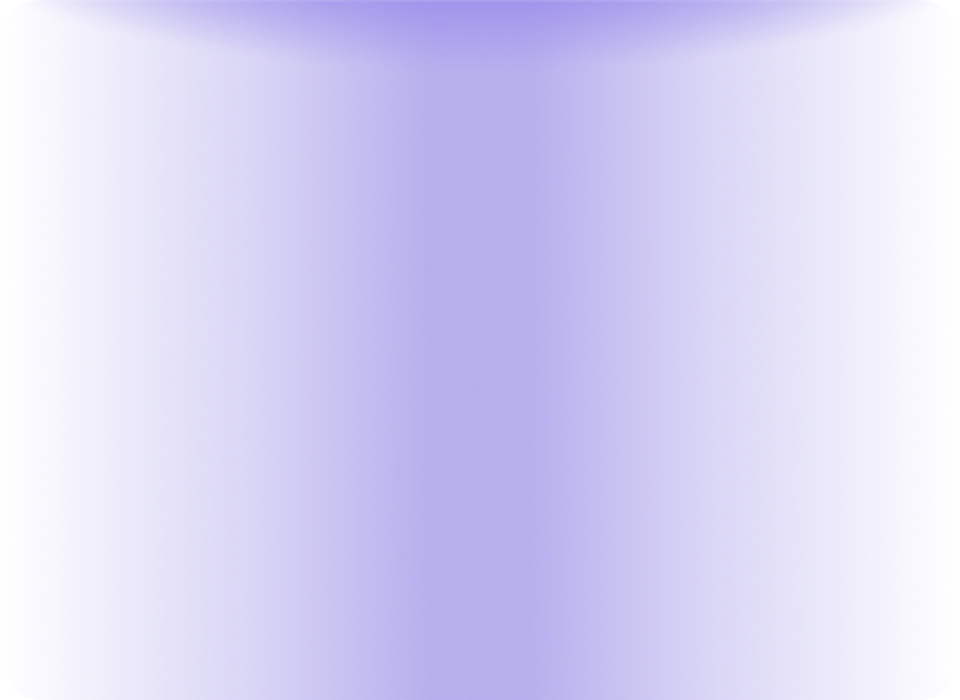
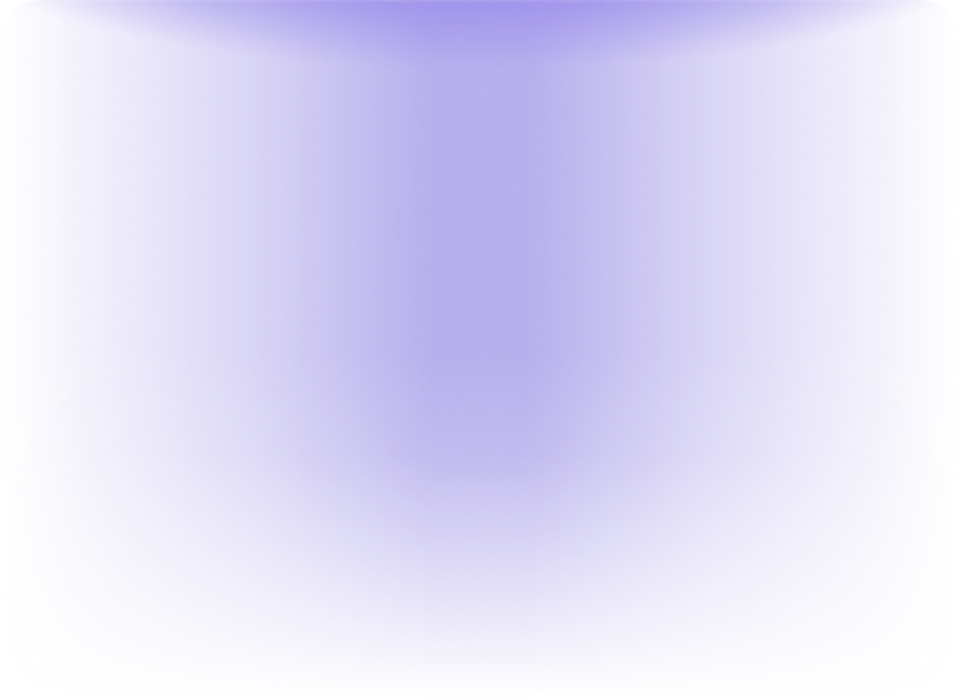
section faq change bg-form

Changed region(s): [[0.1562, 0.69, 0.8438, 1.0]]

diff --git a/css/style.css b/css/style.css
@@ -1101,12 +1101,10 @@ body {
   @media screen and (min-width: 500px) {
     background-image: url('../img/bg-form.webp');
     background-repeat: no-repeat;
-    background-size: cover;
+    background-size: 930px 750px;
     padding: 60px 15px 40px;
     width: 100%;
     background-position: top;
-    border-radius: 40px;
-    /* border-left: 2px, solid #d9d9d924; */
   }
 }
 
